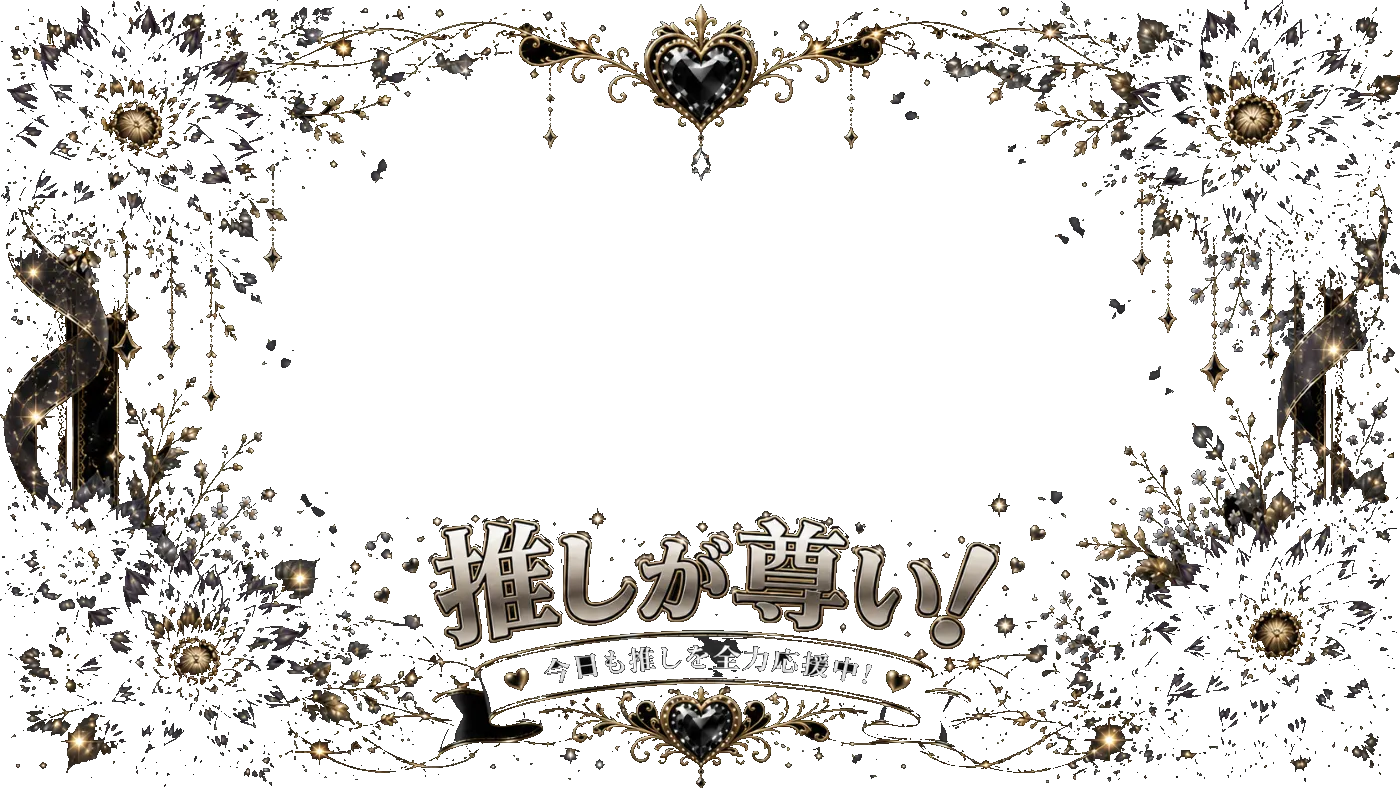
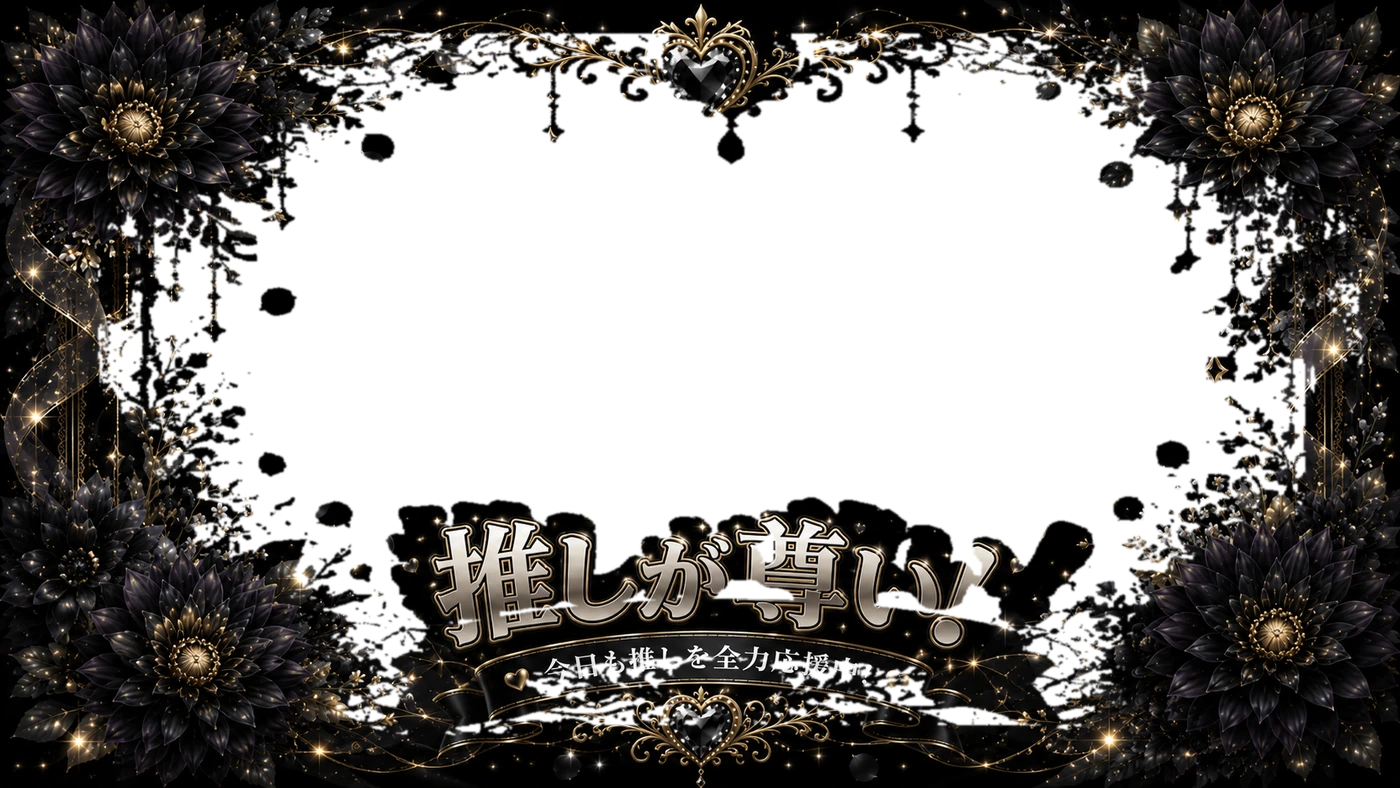
カメラが静止する件の見張り役と、推し・黒の絵の作り直し（v1.1.3 / code 13）
伊波さん「カメラが動いてない」「静止画面のまま」「カメラは起動してる」
（2026-08-16）。

■ カメラの静止（⚠ **直ったとは確認できていない**）

カメラは起動していて映像も来ているのに canvas だけ固まる、という症状。
requestAnimationFrame は画面が隠れているあいだ呼ばれないので、Android で
ホームに戻る・権限のダイアログが被さるなどで次の1回が来ないまま
ループが死ぬのではないか、と見当をつけた。

  見張り役を置いた（1秒ごとに、絵が進んでいなければ回し直す）
  visibilitychange でも回し直す

**手元では症状を再現できていない。** Web版では隠して戻しても動き続ける。
つまりこの修正が効くかは実機で試すまで分からない。効かなければ別の原因。
害は無いので、まず配って様子を見る。

■ 推し・黒の絵（こちらは直った）

元・鍵つきの絵は、黒い部分を機械的に抜いたため**半透明が0%**。境目が
バッサリ切れ、花びらや文字の中身まで消えて絵が壊れていた（伊波さん
「絵が汚いまま」「鍵付きは全部だよ」）。

伊波さんがマゼンタで塗った見本をくれたので、それを穴の形として使い、
元絵（assets/oshiiro/）から作り直した。境目はぼかして半透明を作る。

              半透明      見た目
  直す前      0.00%      花も文字も中身が抜けてスカスカ
  直した後    6.6〜7.0%  黒い花・黒地に金の文字が戻った

■ 残っていること

  ⚠ 元・鍵つき **残り50枚**が同じ状態。ただし元絵が見つかっていない。
     assets 以下 166 個の png と照合したが一致ゼロ。推し色の元絵が
     oshiiro/ にあったのは例外だった。**元絵の在り処を聞くこと**

diff --git a/src/recorder.ts b/src/recorder.ts
@@ -145,8 +145,24 @@ export function startStage(opts: StageOptions): () => void {
 
   let told = false;
   let running = true;
+  // ⚠ **ループが死んだら戻れるようにしておくこと。**
+  //    requestAnimationFrame は画面が隠れているあいだ呼ばれない。Android で
+  //    ホームに戻って開き直したり、権限のダイアログが被さったりすると、
+  //    次の1回が来ないまま止まることがある。そうなるとカメラは動いていて
+  //    映像も来ているのに、canvas だけ固まって静止画に見える
+  //    （2026-08-16、伊波さん「カメラが動いてない」「静止画面のまま」
+  //     「カメラは起動してる」）。
+  //    見張り役を置いて、止まっていたら回し直す
+  let beat = 0;
+  const watchdog = setInterval(() => {
+    if (!running) return;
+    const last = beat;
+    // 200ms 経っても絵が1コマも進んでいなければ、ループが死んでいる
+    setTimeout(() => { if (running && beat === last) requestAnimationFrame(draw); }, 200);
+  }, 1000);
   const draw = () => {
     if (!running) return;
+    beat++;
     try {
     const { video, shape, frame, watermark, mirror, zoom } = read();
     const camZoom = zoom && zoom > 0 ? zoom : 1;
@@ -291,7 +307,14 @@ export function startStage(opts: StageOptions): () => void {
     requestAnimationFrame(draw);
   };
   requestAnimationFrame(draw);
-  return () => { running = false; };
+  // 画面が戻ってきたら、その場で回し直す。見張り役の1秒を待たずに済む
+  const onVisible = () => { if (running && !document.hidden) requestAnimationFrame(draw); };
+  document.addEventListener('visibilitychange', onVisible);
+  return () => {
+    running = false;
+    clearInterval(watchdog);
+    document.removeEventListener('visibilitychange', onVisible);
+  };
 }
 
 export async function startRecording(opts: RecordOptions): Promise<RecordHandle> {
